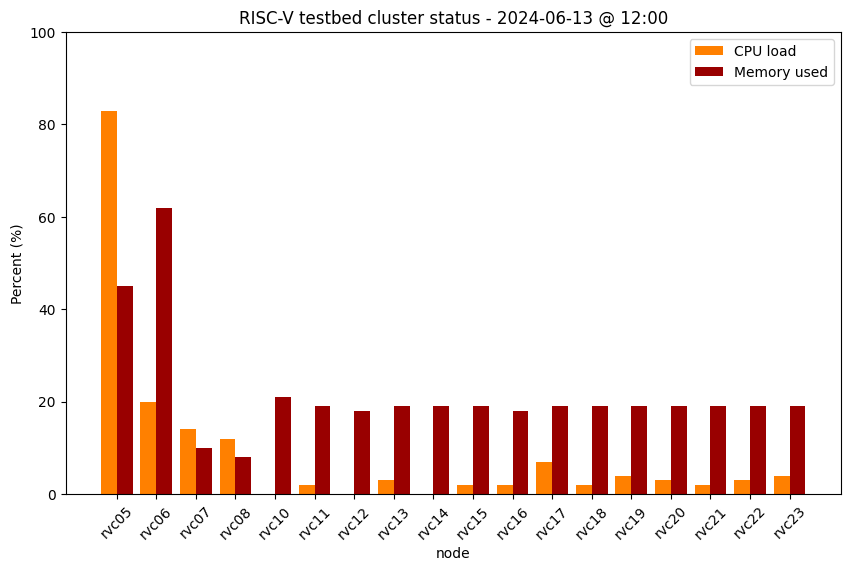
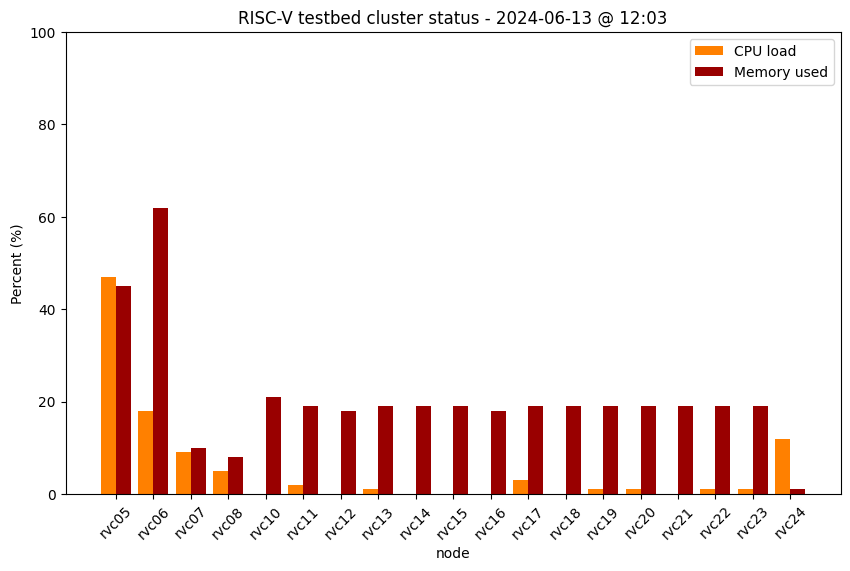
Update cluster status

Changed region(s): [[0.0918, 0.1786, 0.9482, 0.9527], [0.2753, 0.0, 0.7953, 0.0595]]

diff --git a/status.md b/status.md
@@ -36,6 +36,6 @@ permalink: /status/
 | StarFive VisionFive V2 #11 | rvc21 | 4 | 8GB | <img src="/images/on.png" alt="green light" width="10"/> up |
 | StarFive VisionFive V2 #12 | rvc22 | 4 | 8GB | <img src="/images/on.png" alt="green light" width="10"/> up |
 | StarFive VisionFive V2 #13 | rvc23 | 4 | 8GB | <img src="/images/on.png" alt="green light" width="10"/> up |
-| Milk-V Pioneer #1 | rvc24 | 64 | 128GB | <img src="/images/off.png" alt="red light" width="10"/> down |
+| Milk-V Pioneer #1 | rvc24 | 64 | 128GB | <img src="/images/on.png" alt="green light" width="10"/> up |
 | Milk-V Pioneer #2 | rvc25 | 64 | 128GB | <img src="/images/off.png" alt="red light" width="10"/> down |
 
